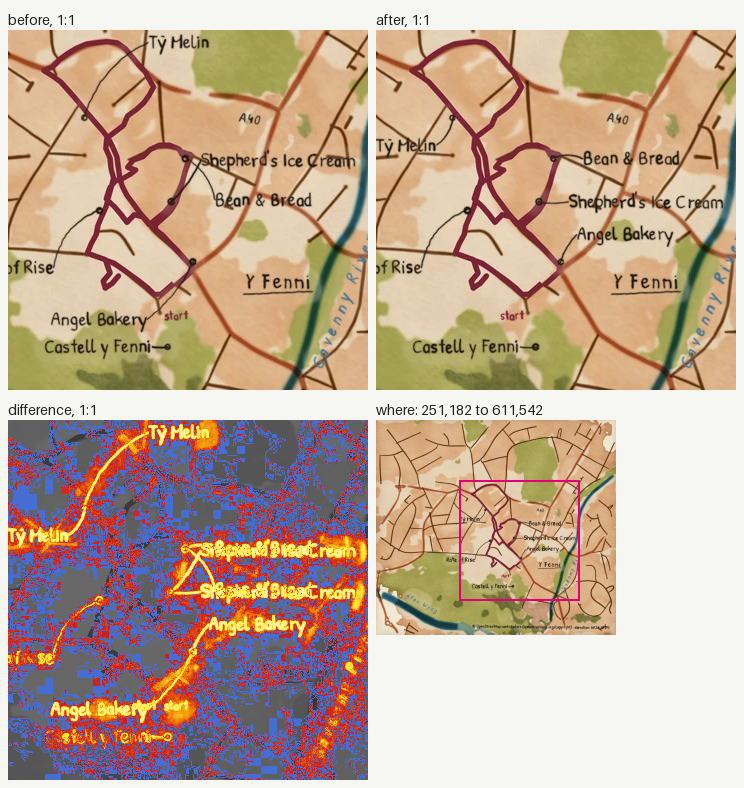
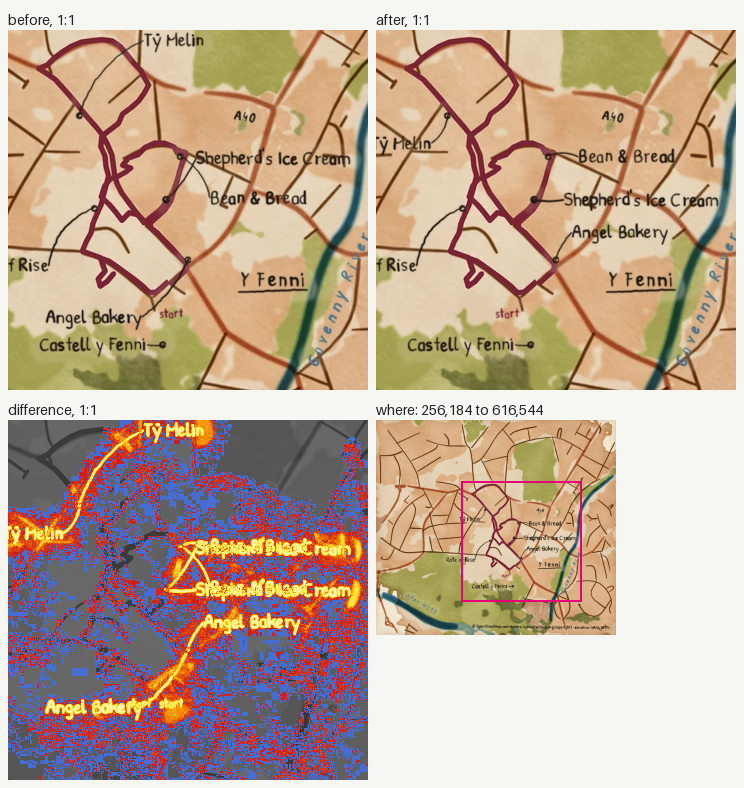
Review images for fix/51-leader-crosses-route

diff --git a/fix/51-leader-crosses-route/summary.md b/fix/51-leader-crosses-route/summary.md
@@ -5,43 +5,43 @@ Changed counts the pixels past channel delta 2; the parity gate bounds it at 0.0
 
 | File | Size | Changed | Max delta | Box | Extent |
 |---|---|---|---|---|---|
-| `docs/images/places/oxford.webp` | 720x643 | 0.238284 (over 0.005) | 208 | 0,0 to 720,643 | widespread |
-| `docs/images/places/y-fenni.webp` | 720x643 | 0.181720 (over 0.005) | 208 | 0,32 to 720,643 | widespread |
-| `tests/golden/docs/places/oxford.png` | 240x214 | 0.056231 (over 0.005) | 171 | 37,33 to 210,110 | widespread |
-| `tests/golden/docs/places/y-fenni.png` | 240x214 | 0.058664 (over 0.005) | 185 | 26,59 to 206,197 | widespread |
+| `docs/images/places/oxford.webp` | 720x643 | 0.231679 (over 0.005) | 201 | 0,14 to 720,643 | widespread |
+| `docs/images/places/y-fenni.webp` | 720x643 | 0.144280 (over 0.005) | 213 | 0,169 to 720,643 | widespread |
+| `tests/golden/docs/places/oxford.png` | 240x214 | 0.057321 (over 0.005) | 165 | 37,33 to 142,110 | local |
+| `tests/golden/docs/places/y-fenni.png` | 240x214 | 0.047839 (over 0.005) | 184 | 80,59 to 204,163 | widespread |
 
 <details open>
-<summary><code>docs/images/places/oxford.webp</code>: widespread, 0.238284</summary>
+<summary><code>docs/images/places/oxford.webp</code>: widespread, 0.231679</summary>
 
-![docs/images/places/oxford.webp: before, after and difference](docs/images/places/oxford.webp.diff.png)
+<img src="docs/images/places/oxford.webp.diff.png" alt="docs/images/places/oxford.webp: before, after and difference" width="720">
 
-![docs/images/places/oxford.webp: the most-changed region at 1:1](docs/images/places/oxford.webp.crop.png)
+<img src="docs/images/places/oxford.webp.crop.png" alt="docs/images/places/oxford.webp: the most-changed region at 1:1">
 
 </details>
 
 <details open>
-<summary><code>docs/images/places/y-fenni.webp</code>: widespread, 0.181720</summary>
+<summary><code>docs/images/places/y-fenni.webp</code>: widespread, 0.144280</summary>
 
-![docs/images/places/y-fenni.webp: before, after and difference](docs/images/places/y-fenni.webp.diff.png)
+<img src="docs/images/places/y-fenni.webp.diff.png" alt="docs/images/places/y-fenni.webp: before, after and difference" width="720">
 
-![docs/images/places/y-fenni.webp: the most-changed region at 1:1](docs/images/places/y-fenni.webp.crop.png)
-
-</details>
-
-<details open>
-<summary><code>tests/golden/docs/places/oxford.png</code>: widespread, 0.056231</summary>
-
-![tests/golden/docs/places/oxford.png: before, after and difference](tests/golden/docs/places/oxford.png.diff.png)
-
-![tests/golden/docs/places/oxford.png: the most-changed region at 1:1](tests/golden/docs/places/oxford.png.crop.png)
+<img src="docs/images/places/y-fenni.webp.crop.png" alt="docs/images/places/y-fenni.webp: the most-changed region at 1:1">
 
 </details>
 
 <details open>
-<summary><code>tests/golden/docs/places/y-fenni.png</code>: widespread, 0.058664</summary>
+<summary><code>tests/golden/docs/places/oxford.png</code>: local, 0.057321</summary>
 
-![tests/golden/docs/places/y-fenni.png: before, after and difference](tests/golden/docs/places/y-fenni.png.diff.png)
+<img src="tests/golden/docs/places/oxford.png.diff.png" alt="tests/golden/docs/places/oxford.png: before, after and difference" width="720">
 
-![tests/golden/docs/places/y-fenni.png: the most-changed region at 1:1](tests/golden/docs/places/y-fenni.png.crop.png)
+<img src="tests/golden/docs/places/oxford.png.crop.png" alt="tests/golden/docs/places/oxford.png: the most-changed region at 1:1">
+
+</details>
+
+<details open>
+<summary><code>tests/golden/docs/places/y-fenni.png</code>: widespread, 0.047839</summary>
+
+<img src="tests/golden/docs/places/y-fenni.png.diff.png" alt="tests/golden/docs/places/y-fenni.png: before, after and difference" width="720">
+
+<img src="tests/golden/docs/places/y-fenni.png.crop.png" alt="tests/golden/docs/places/y-fenni.png: the most-changed region at 1:1">
 
 </details>
